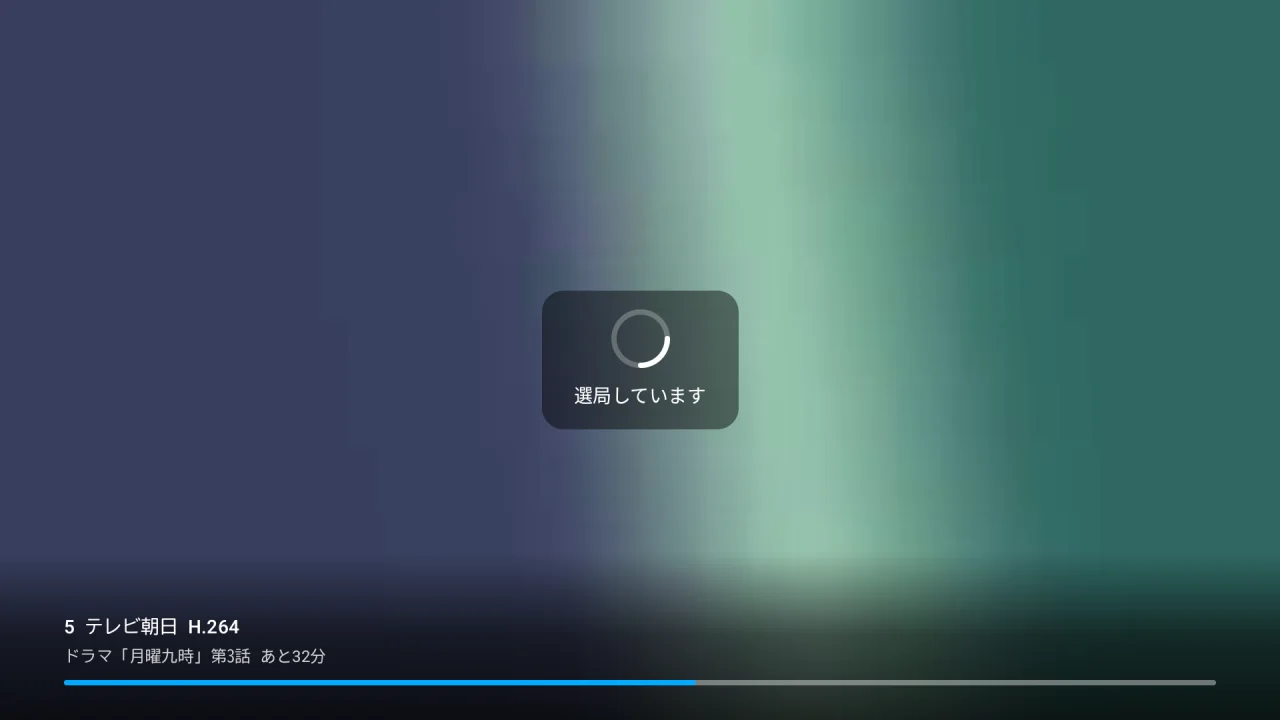
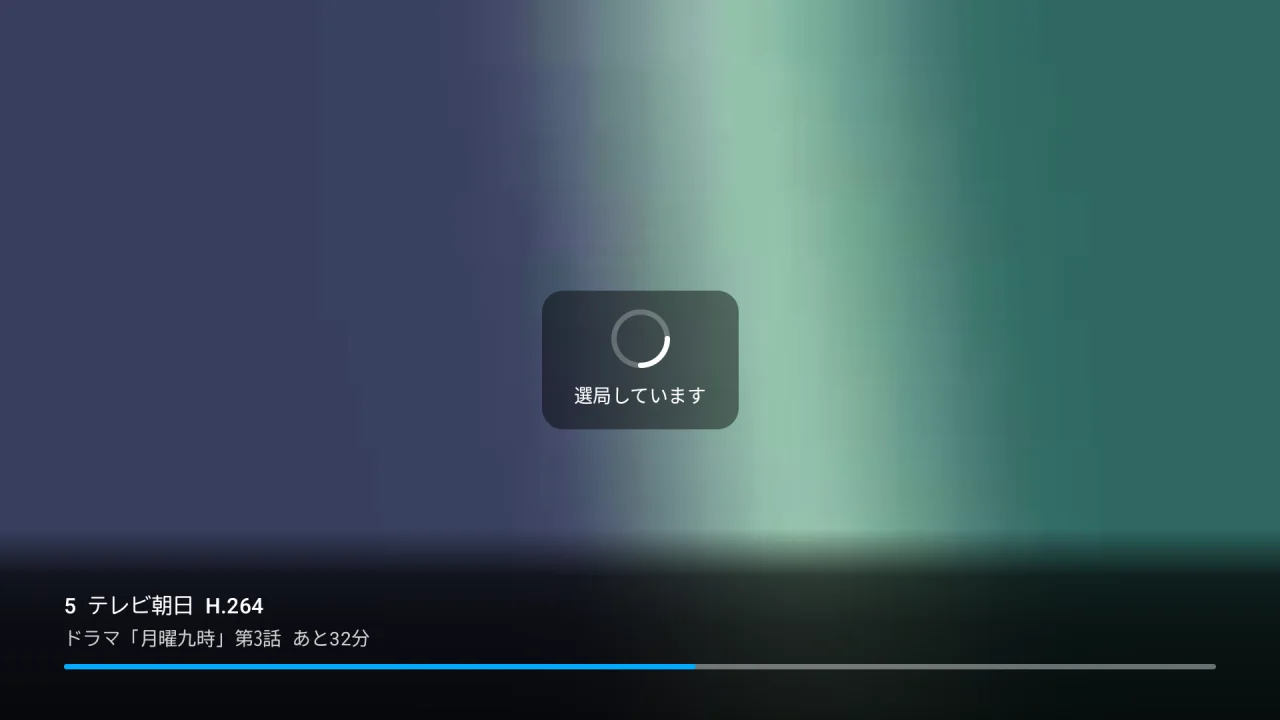
README・docs の絵を #80 の後の main で撮り直す
字の大きさ・左のメニューの位置・詳しくの札の並び・「一覧へ戻る」・局の列の端の透かし・シークバーの丸が新しい見た目になった。
alt も絵に合わせる (一覧の上の段の手引き、シークバーに合っているときの丸、局の列の端、詳しくの「▼ 下キーで続き」、設定の denpa の版)。

Claude-Session: https://claude.ai/code/session_01TG5bWNd7UBYqDbKKDsecbS

Changed region(s): [[0.0, 0.7333, 1.0, 0.9778]]

diff --git a/docs/usage.md b/docs/usage.md
@@ -6,13 +6,13 @@
 
 | **録画の詳しく** (カードの長押し) | **最後まで観たとき** |
 | --- | --- |
-| <img src="images/detail.webp" alt="録画の詳しく。番組名を大きく、その下に局・放送日時・長さの1行と観た位置の帯、形の札 (AV1・H.264・生TS)、横1列の札 (続きから再生 (0:12:00)・最初から・削除・閉じる。続きから再生に合っている)。下に1列で、説明と番組内容をまとめたあらすじ、出演者、原作・脚本・制作・主題歌を小さく詰めて (おしらせは下キーで読む)。後ろに録画の絵をうすく敷く" width="420"> | <img src="images/ended.webp" alt="録画の再生の終わり。字幕は出したまま、下に「最後まで観ました」と、一覧へ戻る・削除 (削除に合っている)" width="420"> |
+| <img src="images/detail.webp" alt="録画の詳しく。番組名を大きく、その下に局・放送日時・長さの1行と観た位置の帯、形の札 (AV1・H.264・生TS)、横1列の札 (続きから再生 (0:12:00)・最初から・削除・閉じる。続きから再生に合っている)。下に1列で、説明と番組内容をまとめたあらすじ、出演者、原作・脚本・制作・主題歌を小さく詰めて (おしらせは下キーで読む)、本文の下の1行に「▼ 下キーで続き」。後ろに録画の絵をうすく敷く" width="420"> | <img src="images/ended.webp" alt="録画の再生の終わり。字幕は出したまま、下に「最後まで観ました」と、一覧へ戻る・削除 (削除に合っている)" width="420"> |
 | **ライブ** (左右で局送り) | **局を替えている間** (長くかかったとき) |
 | <img src="images/live.webp" alt="ライブ。局を替えると、下の端に局と番組名と残り時間、番組の進みが数秒出る" width="420"> | <img src="images/live-tuning.webp" alt="前の局の絵のまま、真ん中に回るものと「選局しています」。下に替えた先の局と番組" width="420"> |
 | **ライブの詳しく** (決定の長押し・情報) | **再生中の詳しく** (決定の長押し) |
-| <img src="images/live-detail.webp" alt="ライブで決定を長押しして開いた、いま放送中の番組の詳しく。番組名、局ロゴと局・時間・長さ、番組の進みと残り (あと32分)、札 (● 録画中・ドラマ > 国内ドラマ・1080i MPEG-2・ステレオ (日本語)・解説ステレオ (日本語))、閉じるの札だけ (録画中は録画の札を出さない。閉じるに合っている)。下に1列で、説明と番組内容①②の段落、その下に出演者の見出し" width="420"> | <img src="images/player-detail.webp" alt="録画の再生中に決定を長押しして開いた詳しく。一覧のものと同じ並びで、札は削除・閉じる (閉じるに合っている)。番組名、局・放送日時・長さ、形の札、説明。後ろに再生中の映像と字幕をうすく残す" width="420"> |
+| <img src="images/live-detail.webp" alt="ライブで決定を長押しして開いた、いま放送中の番組の詳しく。番組名、局ロゴと局・時間・長さ、番組の進みと残り (あと32分)、札 (● 録画中・ドラマ > 国内ドラマ・1080i MPEG-2・ステレオ (日本語)・解説ステレオ (日本語))、閉じるの札だけ (録画中は録画の札を出さない。閉じるに合っている)。下に1列で、説明と番組内容①②の段落、その下に出演者の見出し、本文の下の1行に「▼ 下キーで続き」" width="420"> | <img src="images/player-detail.webp" alt="録画の再生中に決定を長押しして開いた詳しく。一覧のものと同じ並びで、札は削除・閉じる (閉じるに合っている)。番組名、局・放送日時・長さ、形の札、説明。後ろに再生中の映像と字幕をうすく残す" width="420"> |
 | **追っかけ再生** (録画中の録画) | **設定** |
-| <img src="images/chase.webp" alt="追っかけ再生。下の端に「録画中」と番組名、位置と録れたところまでの長さと映している画質 (H.264)、シークバー、操作の札: 一時停止・最新・速さ・画質" width="420"> | <img src="images/settings.webp" alt="設定。幅いっぱいの札が2つ: 繋ぐ先 (押すと繋ぐ先を変える) と、バージョン (押すとアップデートを確かめ、「最新です」と出る。合っている)" width="420"> |
+| <img src="images/chase.webp" alt="追っかけ再生。下の端に「録画中」と番組名、位置と録れたところまでの長さと映している画質 (H.264)、シークバー (合っているので白い丸に水色の縁、丸の上に位置)、操作の札: 一時停止・最新・速さ・画質" width="420"> | <img src="images/settings.webp" alt="設定。幅いっぱいの札が2つ: 繋ぐ先 (押すと繋ぐ先を変える) と、バージョン (押すとアップデートを確かめ、「最新です」と出る。合っている)。その下に小さく denpa の版" width="420"> |
 | **繋ぐ** | |
 | <img src="images/setup.webp" alt="繋ぐ画面。スマホで読む QR と手順、URL を入れる欄と「繋ぐ」" width="420"> | |
 

diff --git a/README.md b/README.md
@@ -9,9 +9,9 @@
 
 | 録画 | 録画の再生 (下キー) |
 | --- | --- |
-| <img src="docs/images/recordings.webp" alt="録画の一覧。左に印だけの細いメニュー。上の段に、合わせている録画 (録っている最中のもの) の番組名を大きく、局・放送日時・長さ、「● 録画中」の札。後ろにその録画の絵をぼかして暗く敷く。下に3列の大きなポスターのカード。ポスターの下の縁の暗い帯に番組名を白く太く2行まで (長い番組名は途中を「…」で縮めて話数「#3」「#1」を残す。まだ観ていないものは頭に水色の点)、ポスターの下に局と放送の時刻 (合わせたものは膨らんで水色の縁)。録っている最中のものは「● 録画中」、焼いている最中のものは「エンコード中 42%」の札。下の端で次の日の段のカードが覗く" width="420"> | <img src="docs/images/player-bar.webp" alt="録画の再生。字幕を文字で描き、操作の列の上へ持ち上げている (上の行は縁取りの字と頭に音符の外字、下の行は半透明の地に黄色の囲みとルビ)。下の端に小さく、番組名と位置、シークバー、操作の札が1行に収まって並ぶ: 一時停止・前へ・次へ・速さ (等速なのでメーターの印だけの丸)・CM 飛ばし 入・字幕 入・削除" width="420"> |
+| <img src="docs/images/recordings.webp" alt="録画の一覧。左に印だけの細いメニュー。上の段の頭に「録画」と手引き (長押しで詳しく (説明・削除)・● まだ観ていない)、その下に、合わせている録画 (録っている最中のもの) の番組名を大きく、局・放送日時・長さ、「● 録画中」の札。後ろにその録画の絵をぼかして暗く敷く。下に3列の大きなポスターのカード。ポスターの下の縁の暗い帯に番組名を白く太く2行まで (長い番組名は途中を「…」で縮めて話数「#3」「#1」を残す。まだ観ていないものは頭に水色の点)、ポスターの下に局と放送の時刻 (合わせたものは膨らんで水色の縁)。録っている最中のものは「● 録画中」、焼いている最中のものは「エンコード中 42%」の札。下の端で次の日の段のカードが覗く" width="420"> | <img src="docs/images/player-bar.webp" alt="録画の再生。字幕を文字で描き、操作の列の上へ持ち上げている (上の行は縁取りの字と頭に音符の外字、下の行は半透明の地に黄色の囲みとルビ)。下の端に小さく、番組名と位置、シークバー (合っているので白い丸に水色の縁、丸の上に位置)、操作の札が1行に収まって並ぶ: 一時停止・前へ・次へ・速さ (等速なのでメーターの印だけの丸)・CM 飛ばし 入・字幕 入・削除" width="420"> |
 | **ライブのメニュー** (下・決定) | **局の列** (上キー) |
-| <img src="docs/images/live-menu.webp" alt="ライブの下の端に、局ロゴと局と番組・番組の進み、操作の札 (画質 H.264・録画中)、その下に地上波の局の列 (いまの局に「録画中」「視聴中」、隣の局に「予約済み」の印) が覗き、次の BS の列の頭が見える" width="420"> | <img src="docs/images/live-channels.webp" alt="局の列。地上波の局の札が横に並び、それぞれに番号・局ロゴ (番号を書いただけの作り物)・局名・番組名。いま映している局は「録画中」「視聴中」の印、合わせた TBS の札は膨らんで水色の縁で「予約済み」の印" width="420"> |
+| <img src="docs/images/live-menu.webp" alt="ライブの下の端に、局ロゴと局と番組・番組の進み、操作の札 (画質 H.264・録画中)、その下に地上波の局の列 (いまの局に「録画中」「視聴中」、隣の局に「予約済み」の印。横に送れる側の端は透かして消える) が覗き、その下に BS の見出しが見える" width="420"> | <img src="docs/images/live-channels.webp" alt="局の列。地上波の局の札が横に並び、それぞれに番号・局ロゴ (番号を書いただけの作り物)・局名・番組名。いま映している局は「録画中」「視聴中」の印、合わせた TBS の札は膨らんで水色の縁で「予約済み」の印。左右の端の札は透かして消える" width="420"> |
 
 絵は作り物の番組を返す偽の denpa で撮ったものです。ほかの画面と動きは [docs/usage.md](docs/usage.md)。
 
